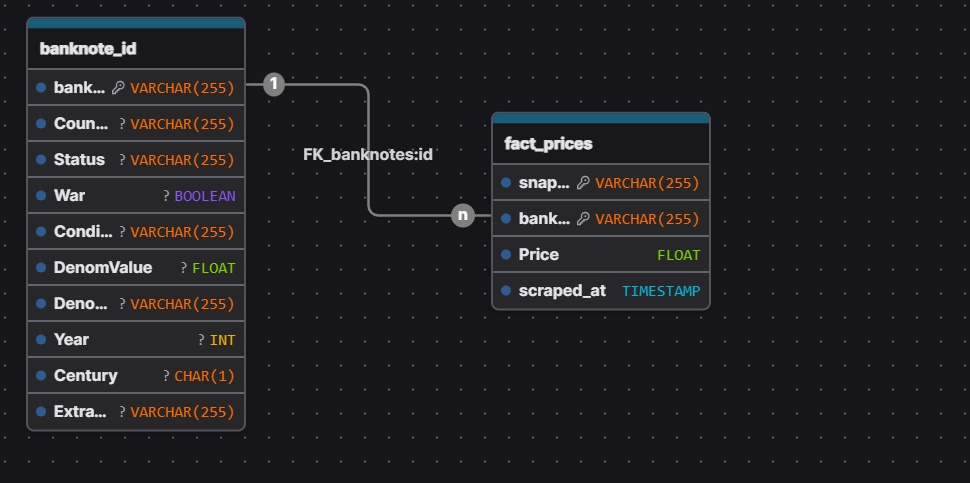
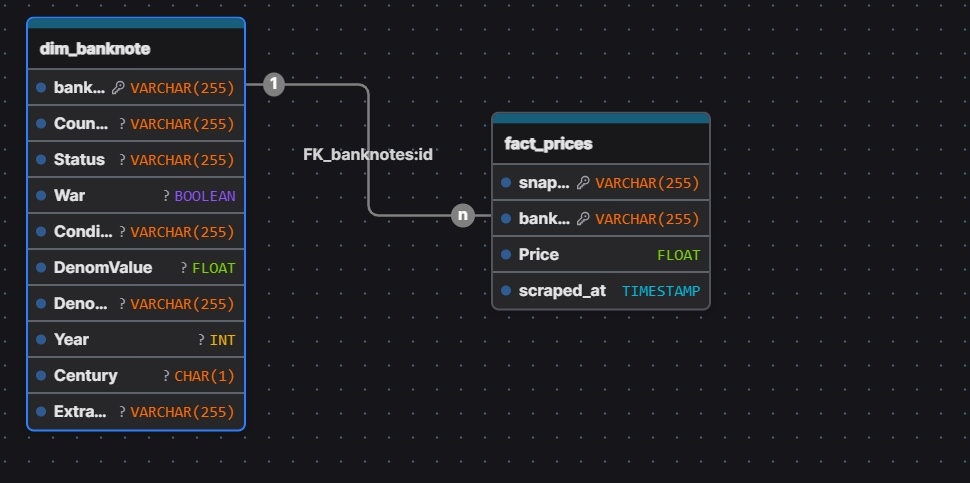
Actualizacion del readme

Changed region(s): [[0.0, 0.0311, 0.2784, 0.9006]]

diff --git a/README.md b/README.md
@@ -1,6 +1,23 @@
 # Numismatic Market Analysis Pipeline
 This project is a personal initiative born from a passion for banknote collecting. It implements a complete end-to-end Data Engineering pipeline to monitor and analyze the numismatic market, providing insights into the valuation of collectible currency.
 
+## 📑 Table of Contents
+* [📊 View Interactive Dashboard](#-view-interactive-dashboard-in-looker-studio)
+* [❓ Problem Description](#-problem-description)
+* [🏗 Project Architecture](#-project-architecture)
+* [🖥 Technologies Used](#-technologies-used)
+* [⚙ Data Processing Strategy: EtLT Pattern](#-data-processing-strategy-etlt-pattern)
+* [⛏ Data Extraction & Transformation Logic](#-data-extraction--transformation-logic-python)
+* [📖 Data Dictionary](#-data-dictionary)
+    * [1. Fact Table: fact_prices](#1-fact-table-fact_prices)
+    * [2. Dimension Table: dim_banknotes](#2-dimension-table-dim_banknotes)
+* [🛠 Reproducibility](#-reproducibility)
+    * [Local Setup](#local-setup)
+    * [CI/CD Setup (GitHub Actions)](#cicd-setup-github-actions)
+* [🧪 Data Quality Tests](#-data-quality-tests)
+* [🔮 Future Improvements](#-future-improvements)
+* [🪐 About the Author](#-about-the-author)
+
 ## 📊 View Interactive Dashboard in Looker Studio
 Explore the final data visualization, featuring dynamic filtering by century, historical status, and currency unit.
 
@@ -28,7 +45,6 @@ The pipeline follows the Modern Data Stack approach:
 6. Automation: GitHub Actions runs the pipeline twice a month (1st and 15th).
 7. Visualization: Looker Studio for interactive dashboards.
 
-![Pipeline Diagram](/diagrams/DE%20Zoomcamp%20Pipeline.jpg)
 
 ## 🖥 Technologies Used
 
@@ -41,24 +57,37 @@ The pipeline follows the Modern Data Stack approach:
 * GitHub Actions (CI/CD and Scheduling)
 * Looker Studio (Visualization)
 
+## ⚙ Data Processing Strategy: EtLT Pattern
+
+This project implements an **EtLT** (Extract, small-t transform, Load, Big-T Transform) architecture, which is a modern hybrid approach to data engineering:
+
+1.  **Extract & "t" (Python Transformation)**: Due to the unstructured nature of web-scraped data, initial cleaning is performed using Python. The [clean_raw_data.py](https://github.com/Camila20197/numismatic-analysis-de-zoomcamp-project/blob/main/src/clean_raw_data.py) script utilizes **Regular Expressions (Regex)** to parse complex titles into structured fields (Country, Year, Denomination) and generates deterministic unique IDs.
+2.  **Load (GCS)**: These semi-structured CSV files are then loaded into **Google Cloud Storage**, serving as a staging area.
+3.  **"T" (BigQuery & dbt Transformation)**: Once the data is in **BigQuery**, **dbt** takes over the heavy lifting. This stage involves final dimensional modeling (Star Schema) and data quality enforcement, materializing the final `dim_banknotes` and `fact_prices` tables for analysis.
+
+**Why EtLT?** This pattern was chosen because Python provides superior flexibility for string manipulation and data parsing during the initial cleaning phase, while BigQuery and dbt offer unmatched scalability and performance for final analytical modeling.
+
+![Pipeline Diagram](/diagrams/DE%20Zoomcamp%20Pipeline.jpg)
+
 ## ⛏ Data Extraction & Transformation Logic (Python)
 A significant portion of this project relies on robust Python scripting to handle unstructured web data:
 
-* Asynchronous Web Scraping: Using aiohttp and BeautifulSoup4, the get_raw_data.py script efficiently navigates pagination with semaphore limits to avoid server overloads while extracting raw HTML.
-* Regex Parsing & Business Logic: The clean_raw_data.py script uses advanced Regular Expressions and dictionary mappings to extract details from messy product titles. It correctly identifies historical entities (e.g., distinguishing between existing countries and historical colonies like "Indochina Francesa"), normalizes currencies, and parses condition grades (UNC, XF, VF).
+* Asynchronous Web Scraping: Using aiohttp and BeautifulSoup4, the [get_raw_data.py](https://github.com/Camila20197/numismatic-analysis-de-zoomcamp-project/blob/main/src/get_raw_data.py) script efficiently navigates pagination with semaphore limits to avoid server overloads while extracting raw HTML.
+* Regex Parsing & Business Logic: The [clean_raw_data.py](https://github.com/Camila20197/numismatic-analysis-de-zoomcamp-project/blob/main/src/clean_raw_data.py) script uses advanced Regular Expressions and dictionary mappings to extract details from messy product titles. It correctly identifies historical entities (e.g., distinguishing between existing countries and historical colonies like "Indochina Francesa"), normalizes currencies, and parses condition grades (UNC, XF, VF).
 * Idempotency & Snapshot Tracking: The script generates a deterministic MD5 hash (generate_primary_key) for each unique banknote and a snapshot_id for every price extraction. This ensures the pipeline can run multiple times without duplicating core dimensions, while appending new historical prices accurately.
 
 ## 📖 Data Dictionary
 
 This project utilizes a dimensional modeling approach, Star Schema, to organize the scraped numismatic data efficiently for analysis.
 
-### 1. Fact Table: `fact_prices`
-This table acts as the core of our analytical model. It captures the quantitative market data and tracks the valuation of banknotes over time, allowing for historical price analysis. The relationship between the tables is defined as follows:
-
 * One-to-Many Relationship (1:N): A single record in dim_banknotes (the parent table) can be associated with multiple records in fact_prices (the child table).
 * Foreign Key Mapping: The banknote_id serves as the primary key in the dimension table and as a foreign key in the fact table.
 
 ![Entity Relationship Diagram](/diagrams/DE%20Zomcamp%20ER.jpeg)
+
+
+### 1. Fact Table: `fact_prices`
+This table acts as the core of our analytical model. It captures the quantitative market data and tracks the valuation of banknotes over time, allowing for historical price analysis. The relationship between the tables is defined as follows:
 
 
 | Variable | Data Type | Description |
@@ -89,45 +118,77 @@ This dimension table stores all the descriptive, historical, and categorical att
 ### Local Setup
 To run this project on your local machine, follow these steps:
 
-1. Prerequisites:
+#### Prerequisites
 
-    * Install uv for Python dependency management.
-    * Install Terraform.
-    * A Google Cloud Project with a Service Account JSON key.
+Before proceeding, ensure you have the following installed and configured. Refer to the official documentation for detailed installation guides:
 
-2. Clone the repository:
+* [Python](https://www.python.org/downloads/?hl=ES): Version 3.12 or more The core programming language.
+* [uv](https://docs.astral.sh/uv/): A fast Python package and dependency manager.
+* [Terraform](https://developer.hashicorp.com/terraform/docs): Used for provisioning GCP infrastructure.
+* [Prefect](https://docs.prefect.io/):  orchestration tool.
+* [Google Cloud Account](https://cloud.google.com/docs): With a project, billing enabled, and a Service Account JSON key.
+* [dbt (Core)](https://docs.getdbt.com/): Installed and available in your environment.
 
-    1. git clone https://github.com/your-username/numismatic-analysis.git
-    2. numismatic-analysis
+#### Step A: Clone the repository
 
-3. Infrastructure Provisioning:
-Navigate to your Terraform folder and apply the configuration to create the GCP resources:
+```bash
+git clone https://github.com/your-username/numismatic-analysis.git
+```
 
-    1. cd terraform
-    2. terraform init
-    3. terraform apply
-    4. cd ..
+#### Step B: Infrastructure Provisioning with Terraform
+Navigate to the terraform directory and apply the configuration to create the required GCS buckets and BigQuery datasets.
 
-4. Install dependencies:
+```bash
+cd terraform
+terraform init
+terraform plan
+terraform apply
+```
 
-    * uv sync
+After confirmation, you can navigate back to the root:
 
-5. Environment Variables:
+```bash
+cd ..
+```
+#### Step C: Install Dependencies and Set Up Environment
+Install all necessary Python libraries using uv:
+```bash
+uv sync
+```
 Create a .env file or export your GCP credentials and bucket names:
 
-    1. export NUMISMATIC_BUCKET="your-gcs-bucket-name"
-    2. export NUMISMATIC_RAW="raw_banknotes.csv"
-    3. export GOOGLE_APPLICATION_CREDENTIALS="path/to/your/gcp-key.json"
+```bash
+export NUMISMATIC_BUCKET="your-gcs-bucket-name"
+export NUMISMATIC_RAW="raw_banknotes.csv"
+export GOOGLE_APPLICATION_CREDENTIALS="path/to/your/gcp-key.json"
+```
+#### Step D: Authenticate with Prefect Cloud
+Ensure your local environment can communicate with Prefect Cloud by logging in and setting your active workspace:
 
-6. Run the Pipeline:
+```bash
+prefect cloud login -k YOUR_PREFECT_API_KEY
+prefect cloud workspace set --workspace "your-handle/your-workspace-name"
+```
 
-    1. uv run src/get_raw_data.py
-    2. uv run src/clean_raw_data.py
+#### Step E: Run the Data Pipeline (Prefect Flows)
+Execute the scraping and cleaning processes managed by Prefect:
+```bash
+cd src
+uv run src/get_raw_data.py
+uv run src/clean_raw_data.py
+```
 
-7. Run dbt Transformations:
+After run, you can navigate back to the root:
+```bash
+cd ..
+```
 
-    1. cd transform_numismatic
-    2. dbt build
+#### Step F: Execute dbt Transformations
+Move to the transform_numismatic directory to build the dimensional models.
+```bash
+cd transform_numismatic
+dbt build
+```
 
 ### CI/CD Setup (GitHub Actions)
 To automate the pipeline in the cloud:
